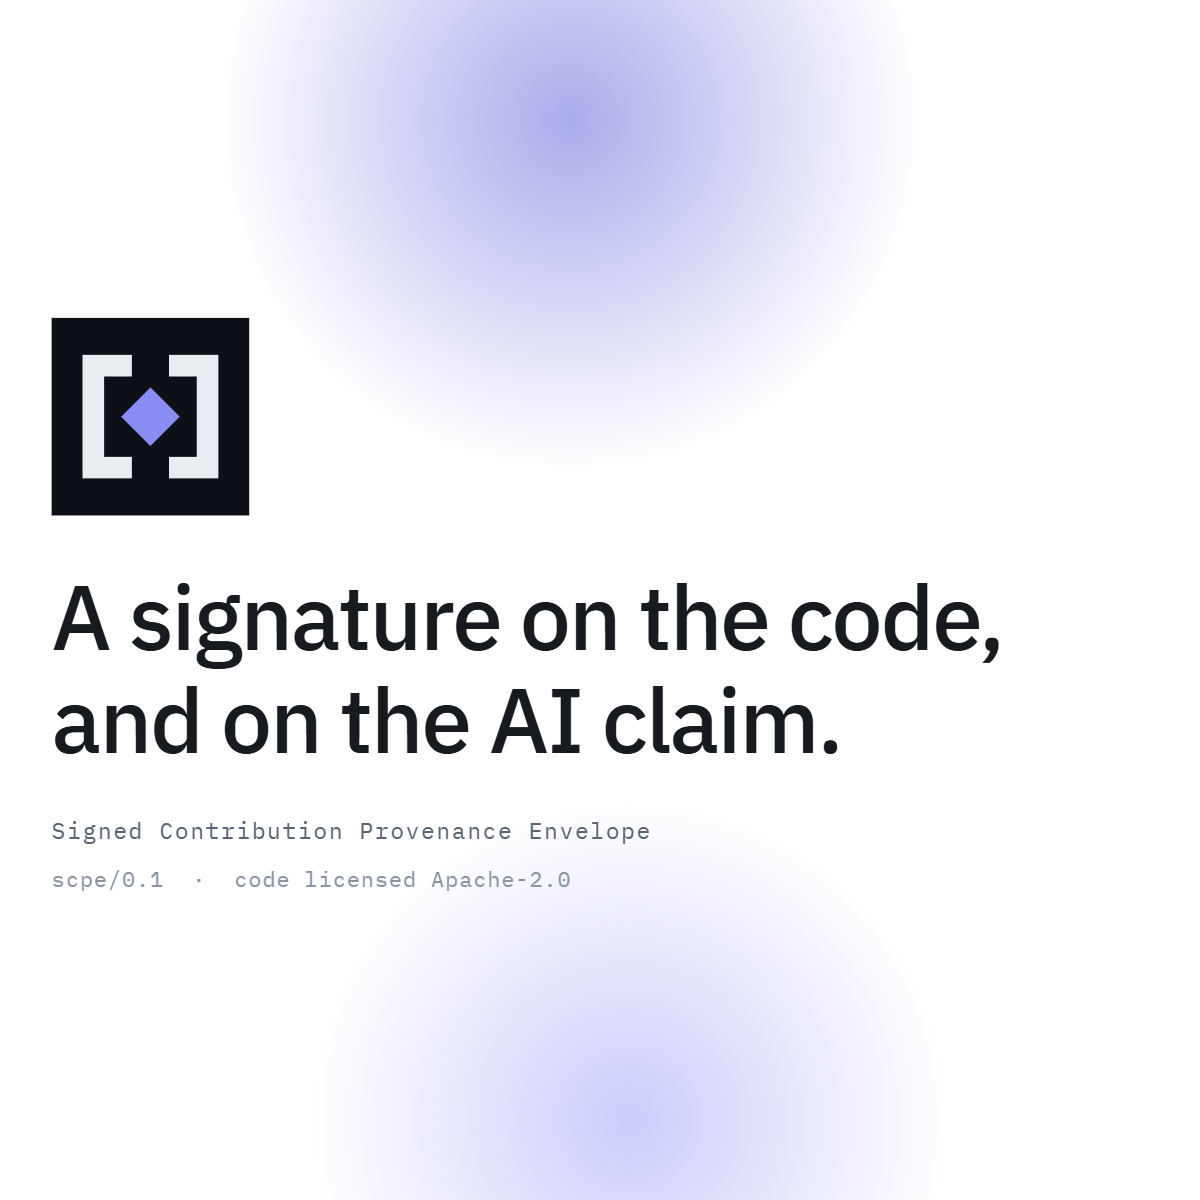
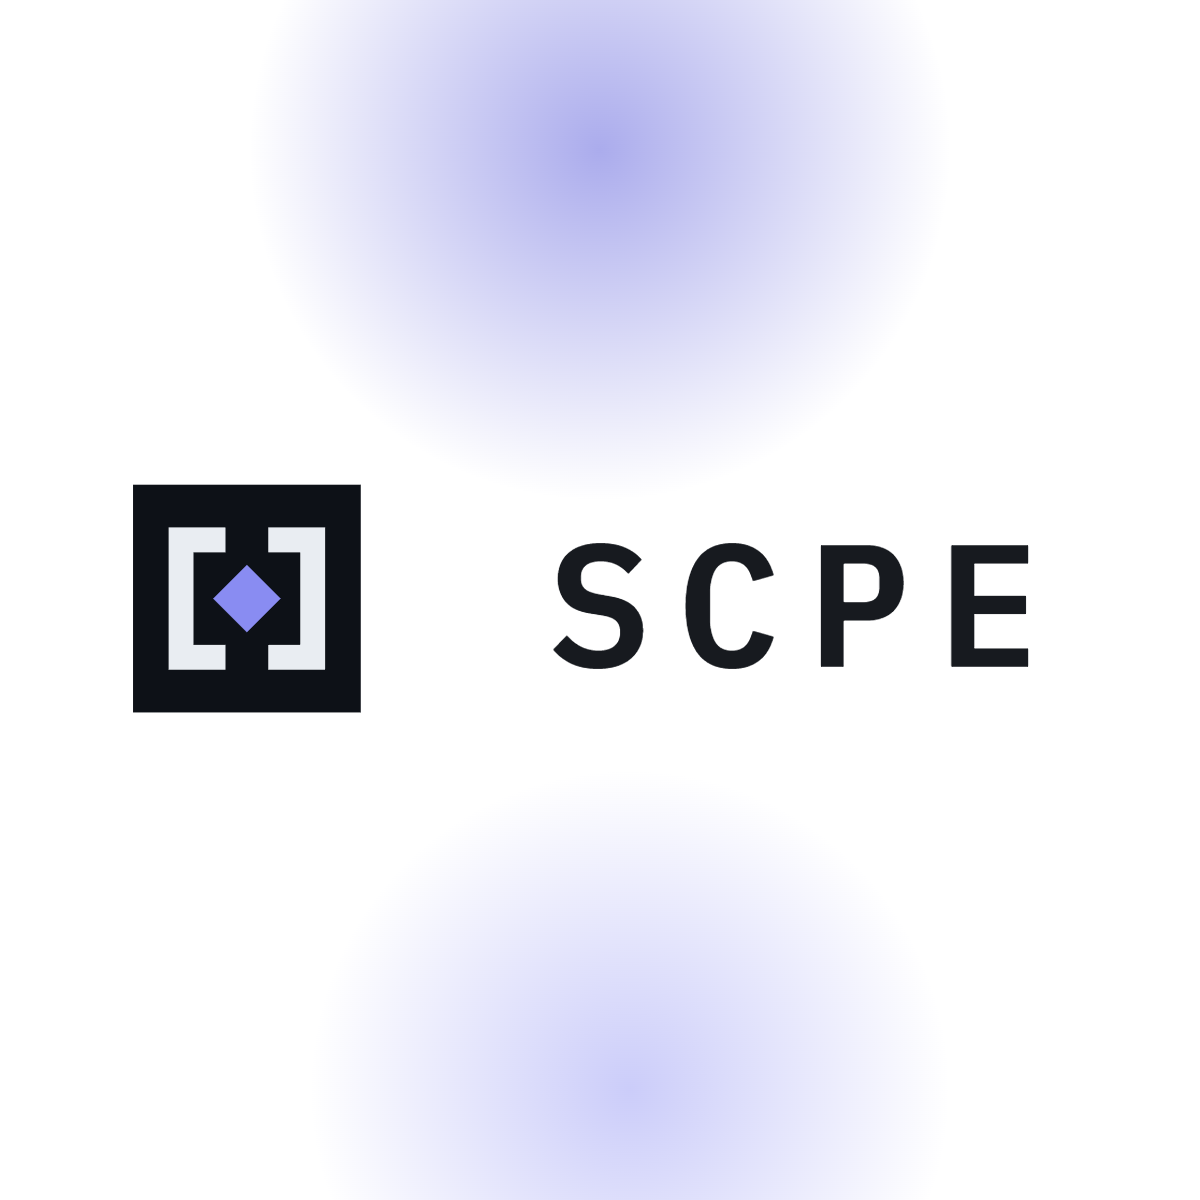
docs(brand): the tile is the header lockup, magnified
Mark beside wordmark is the one logo this project has, and it is what the other
published portfolio tiles do: a name you can read at a glance rather than a scene
you have to squint at.

The numbers are the site's header row — 17px mark, 12px gap, SCPE at 13px Plex
Mono 600 on 1.9px tracking — with the block scaled as a whole, so the ratios are
the header's and nothing was redrawn. Fills 78% of the frame and stays readable
downscaled to 190px, which is the size a portfolio grid actually renders.

diff --git a/docs/brand/thumb-tile.html b/docs/brand/thumb-tile.html
@@ -1,47 +1,38 @@
 <!doctype html>
 <html><head><meta charset="utf-8"><link rel="stylesheet" href="_style.css">
 <style>
-  /* 1200 x 1200 — the site's hero, magnified. Nothing here is composed for this file.
-     The mark, the H1 and the mono strapline are the site's opening screen at the site's own
-     pixel values; only the whole block is scaled, exactly like the cards. An earlier version
-     of this file invented a display lockup — a 236px wordmark on 26px tracking, centred —
-     which used the right typefaces to draw something the site does not contain. Don't.
-     If a tile needs to read smaller, raise the scale; never redraw the composition. */
-  .frame { width: 1200px; height: 1200px; }
+  /* 1200 x 1200 — the site's header lockup, magnified.
+     Mark beside wordmark is the one logo the site actually has: 17px mark, 12px gap, SCPE at
+     13px IBM Plex Mono 600 on 1.9px tracking. Those are the site's numbers, kept in the same
+     ratios; only the block as a whole is scaled, so this is the header at tile size and not a
+     logo drawn for this file. At 190px on a portfolio grid that is the largest the name can
+     be set and still be the site's.
+     Two earlier versions of this file got it wrong: one invented a display lockup with its
+     own tracking, one reproduced the hero and read too small. Scale the block, never redraw it. */
+  .frame { width: 1200px; height: 1200px; display: grid; place-items: center; }
   .frame::before, .frame::after { content: ''; position: absolute; pointer-events: none; }
-  .frame::before { width: 900px; height: 900px; top: -330px; left: 120px; background: var(--wash-1); }
-  .frame::after  { width: 820px; height: 820px; bottom: -330px; left: 220px; background: var(--wash-3); }
+  .frame::before { width: 900px; height: 900px; top: -300px; left: 150px; background: var(--wash-1); }
+  .frame::after  { width: 820px; height: 820px; bottom: -300px; left: 220px; background: var(--wash-3); }
 
-  /* the site's hero column, at the site's px, scaled as one block */
-  .frame .hero {
-    position: absolute; z-index: 1;
-    /* The H1 breaks where the site breaks it, so the column only has to hold the longer
-       line rather than the site's full 720px measure. That buys scale, which is the only
-       lever allowed here: read smaller by magnifying the block, never by redrawing it. */
-    width: 580px;
-    transform: scale(1.9);
-    transform-origin: top left;
-    top: 318px; left: 52px;
+  /* the header row, at the site's px */
+  .lock {
+    position: relative; z-index: 1;
+    display: flex; align-items: center; gap: 12px;
+    transform: scale(13.4);
   }
-  .hero .mark { width: 104px; height: 104px; display: block; margin-bottom: 26px; }
-  .hero h1 { margin-bottom: 22px; }
-  .hero .strap {
+  .lock svg { width: 17px; height: 17px; display: block; }
+  .lock .word {
     font-family: 'IBM Plex Mono', monospace;
-    font-size: 12px; letter-spacing: .9px; color: var(--body);
-  }
-  .hero .meta {
-    font-family: 'IBM Plex Mono', monospace;
-    font-size: 11.5px; letter-spacing: .5px; color: var(--faint); margin-top: 10px;
+    font-size: 13px; font-weight: 600; letter-spacing: 1.9px;
+    text-indent: 1.9px;   /* tracking leaves a trailing gap; nudge back to true centre */
   }
 </style>
 </head>
 <body>
 <div class="frame">
-  <div class="hero">
-    <svg class="mark" viewBox="0 0 64 64" xmlns="http://www.w3.org/2000/svg"><rect width="64" height="64" fill="#0D1117"/><path fill="#E9EDF2" d="M10 12H26V19H17V45H26V52H10ZM54 12H38V19H47V45H38V52H54Z"/><path fill="#898CF2" d="M32 22.5 41.5 32 32 41.5 22.5 32Z"/></svg>
-    <h1>A signature on the code,<br>and on the AI claim.</h1>
-    <div class="strap">Signed Contribution Provenance Envelope</div>
-    <div class="meta">scpe/0.1 &nbsp;·&nbsp; code licensed Apache-2.0</div>
+  <div class="lock">
+    <svg viewBox="0 0 64 64" xmlns="http://www.w3.org/2000/svg"><rect width="64" height="64" fill="#0D1117"/><path fill="#E9EDF2" d="M10 12H26V19H17V45H26V52H10ZM54 12H38V19H47V45H38V52H54Z"/><path fill="#898CF2" d="M32 22.5 41.5 32 32 41.5 22.5 32Z"/></svg>
+    <span class="word">SCPE</span>
   </div>
 </div>
 </body></html>
